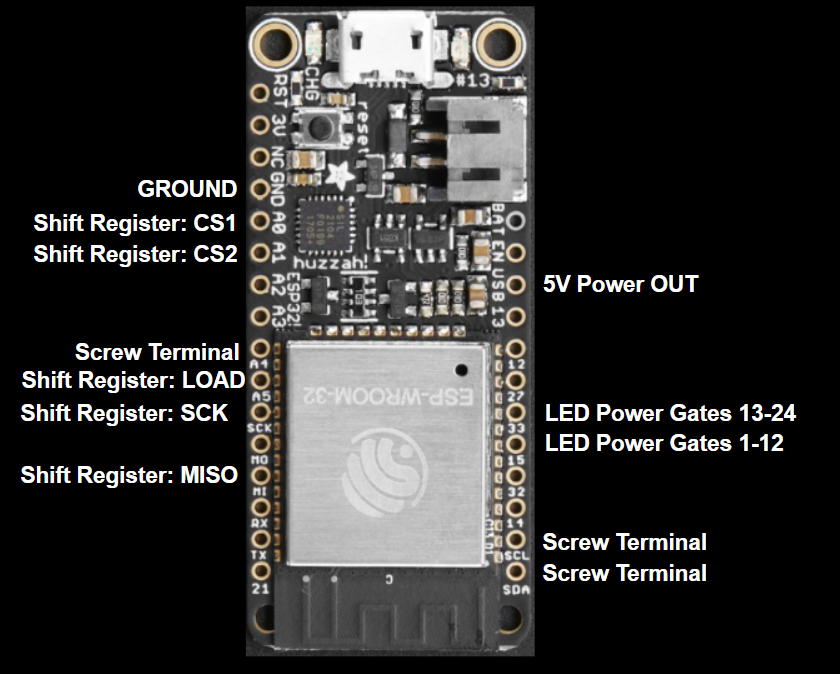
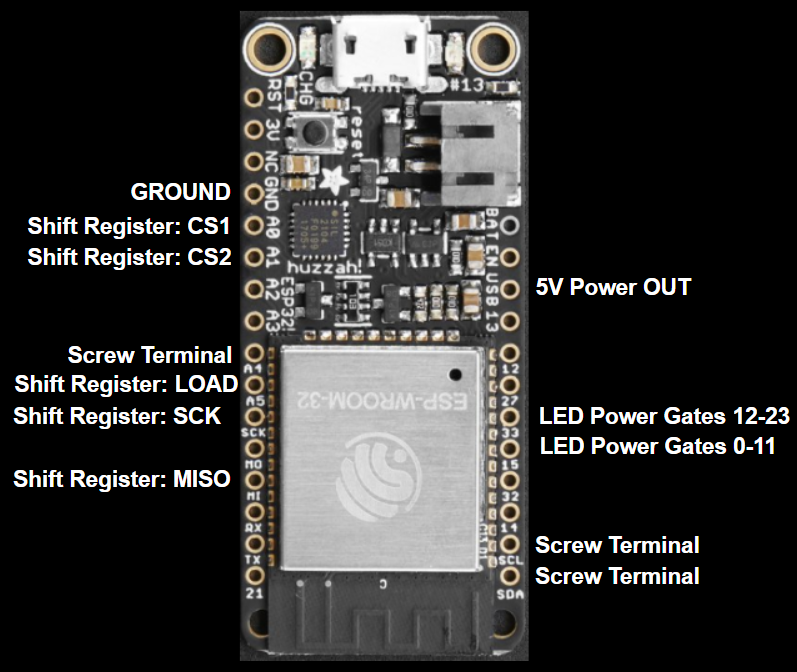
update pics

Changed region(s): [[0.0, 0.0, 0.9937, 1.0], [0.4818, 0.9062, 0.5119, 0.9375], [0.4517, 0.75, 0.4818, 0.7812]]

diff --git a/README.md b/README.md
@@ -12,17 +12,17 @@ The current tested design is dual footprint and accepts [Adafruit Feather](https
 
 ### Major Differences/Improvements
 - All through-hole components for easy soldering
-- Dual footprint for both Feather and ItsyBitsy
+- Dual footprint, socketed, off-the-shelf uControllers => Feather and ItsyBitsy
 - Program in Arduino, Lua, and microPython
 - A total of 24 gates, 48 sensors, 6 shift registers
 - ~14.75" long stretching the entire opening of a langstroth hive for easy placement
-- Socketed off the shelf uControllers for quick setup. Feather Footprint
-- using 2 PCBs to create a sandwich. This is an inexpensive solution and makes for a tight package. The PCBs must be ordered [black](https://github.com/hydronics2/2019-easy-bee-counter/tree/master/instructions/ordering_instructions) so the IR LEDs/sensors work well.
-- using 6 pin headers as dividers and spacers to create gates
-- N-Ch mosfet controlled IR LEDs such that LEDs can be controlled ON for short periods during while sensing (~75us). This is a modest energy savings feature but seems prudent given that turning all LEDs on can pull almost 1/2 amp!
+- using 2 PCBs to create a sandwich is an inexpensive quick solution. The PCBs must be ordered [black](https://github.com/hydronics2/2019-easy-bee-counter/tree/master/instructions/ordering_instructions) so the IR LED emitter is absorbed into the material.
+- using 6 pin headers to create the turn-styles or gates
+- N-Ch mosfet controlled IR LEDs such that LEDs can be controlled ON for short periods during while sensing (~75us). Allows for reduced power to less than 1ma (plus uController).
 ![feather](https://github.com/hydronics2/2019-easy-bee-counter/blob/master/pics/gerber_feather_1.PNG)
 ![feather](https://github.com/hydronics2/2019-easy-bee-counter/blob/master/pics/finished.jpg)
 ![feather](https://github.com/hydronics2/2019-easy-bee-counter/blob/master/pics/finished2.jpg)
+![feather](https://github.com/hydronics2/2019-easy-bee-counter/blob/master/pics/feather_finish.PNG)
 ![feather](https://github.com/hydronics2/2019-easy-bee-counter/blob/master/pics/itsy_bitsy_finish.PNG)
 ![pic](https://github.com/hydronics2/2019-easy-bee-counter/blob/master/pics/pcb_notes_.PNG)
 
@@ -31,8 +31,9 @@ Honeybees are forced through 24 gates where optical sensors (2 per gate) sense w
 
 ### uController Pinout
 #### Feather Pinout
-![feather](https://github.com/hydronics2/2019-easy-bee-counter/blob/master/pics/feather_pinout.jpg)
-
+![feather](https://github.com/hydronics2/2019-easy-bee-counter/blob/master/pics/feather_pinout1.PNG)
+#### ItsyBitsy Pinout
+![itsy](https://github.com/hydronics2/2019-easy-bee-counter/blob/master/pics/itsy_pinout.PNG)
 ### Shift-in registers
 There are 6 shift-in registers. Here's a great description for how to connect and program [shift registers](http://www.gammon.com.au/forum/?id=11979).  The uController's SPI pins read the shift registers. All six shift registers are read at the same time. The sensors are normally pulled low and show 3.3V or HIGH when a transistor is triggered and a bee is present.
 
